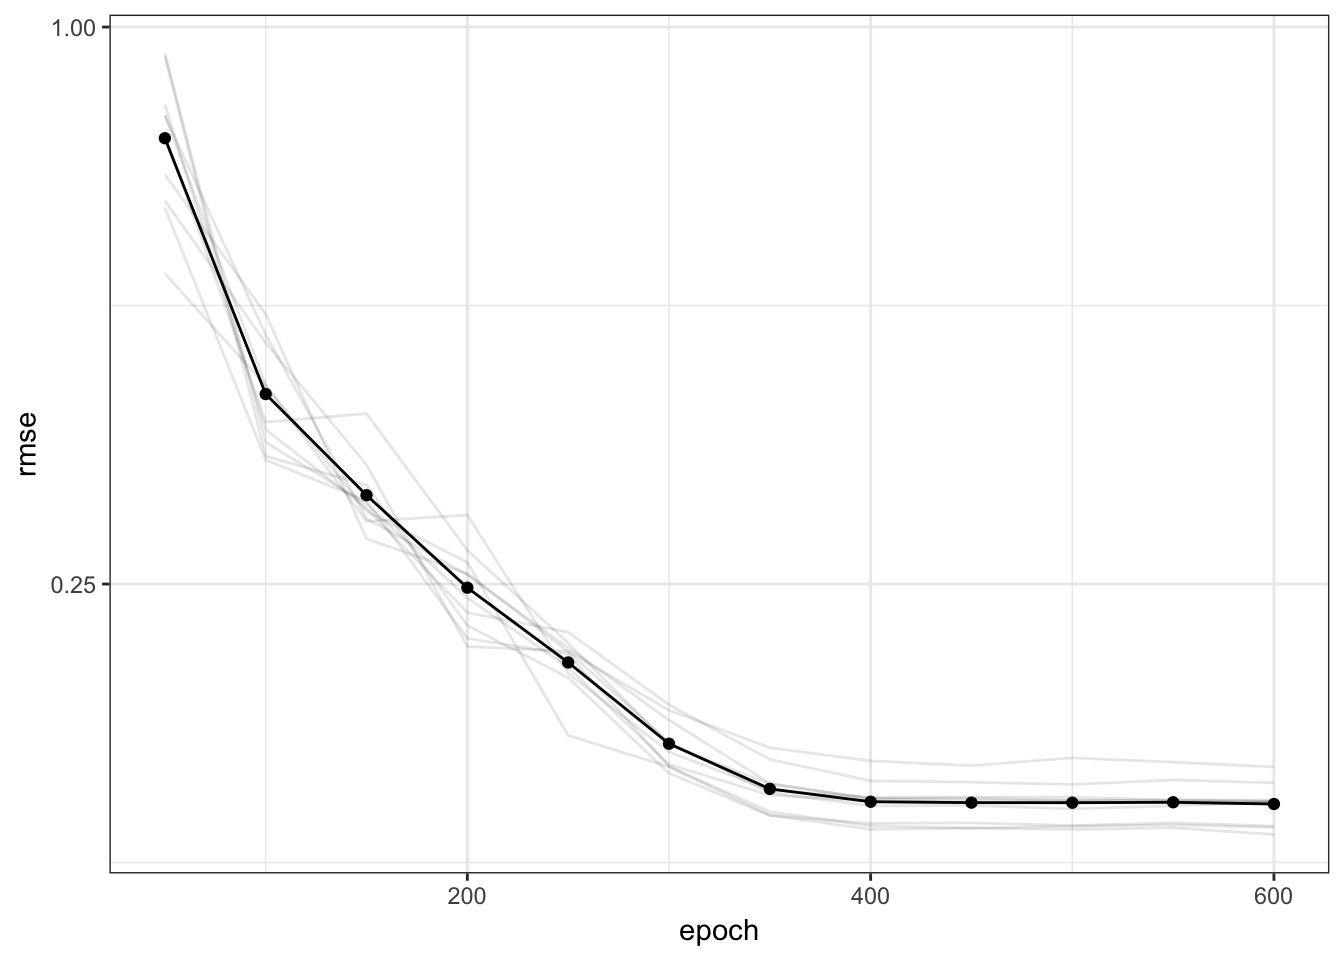
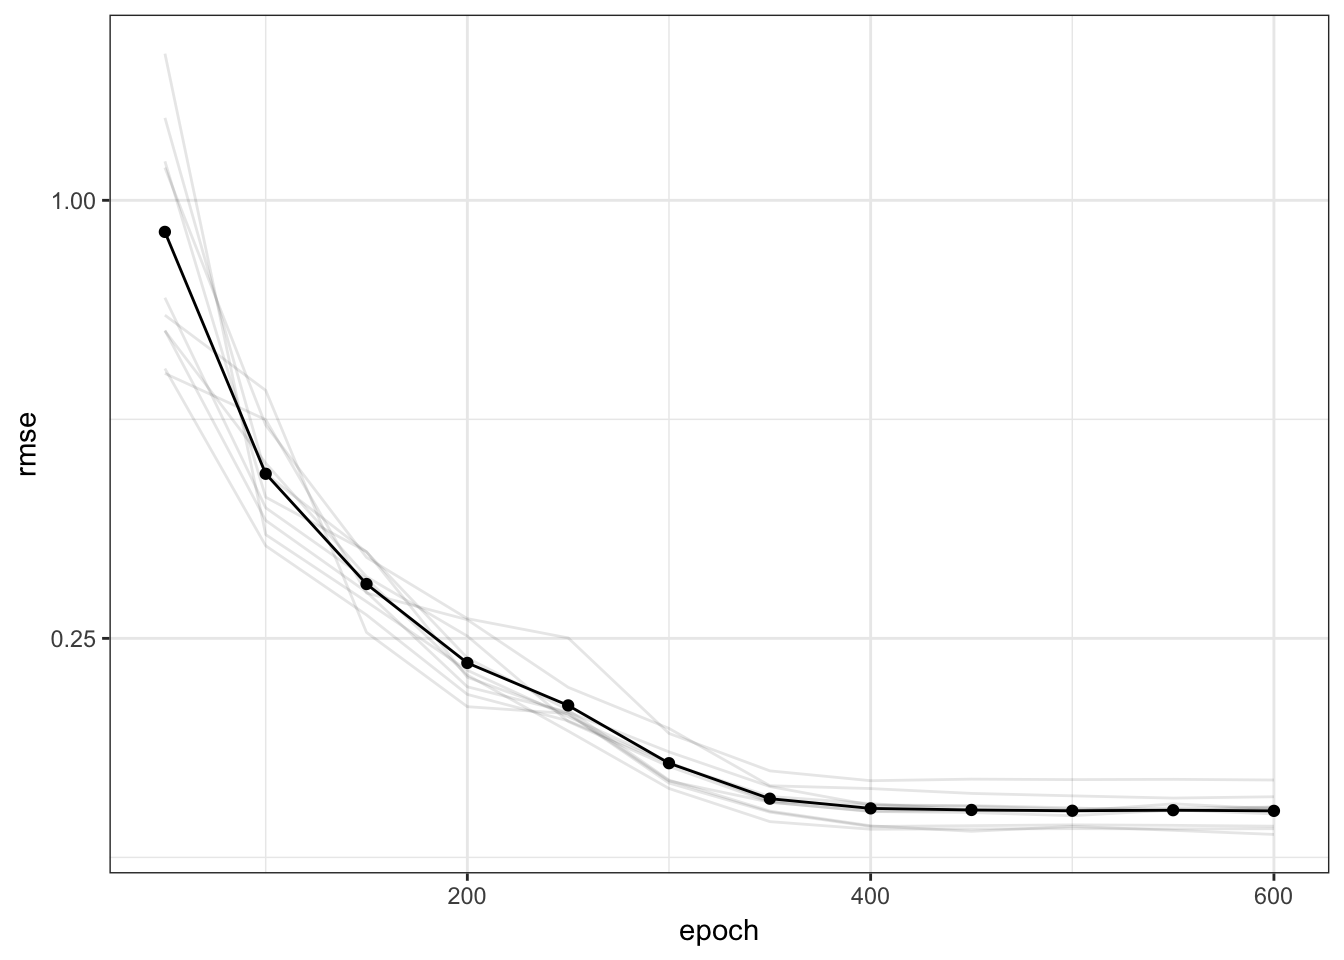
Updated time series model code for vignette

diff --git a/README.html b/README.html
@@ -122,7 +122,7 @@ $(document).ready(function () {
 
 
[3 lines of base64/hex data omitted]
 <p><code>rsample</code> contains a set of functions that can create different types of resamples and corresponding classes for their analysis. The goal is to have a modular set of methods that can be used across different R packages for:</p>
 <ul>
 <li>traditional resampling techniques for estimating the sampling distribution of a statistic and</li>

diff --git a/docs/reference/tidy.rsplit.html b/docs/reference/tidy.rsplit.html
@@ -153,26 +153,26 @@
 <span class='fu'>set.seed</span>(<span class='fl'>4121</span>)
 <span class='no'>cv</span> <span class='kw'>&lt;-</span> <span class='fu'>tidy</span>(<span class='fu'><a href='vfold_cv.html'>vfold_cv</a></span>(<span class='no'>mtcars</span>, <span class='kw'>v</span> <span class='kw'>=</span> <span class='fl'>5</span>))
 <span class='fu'><a href='http://www.rdocumentation.org/packages/ggplot2/topics/ggplot'>ggplot</a></span>(<span class='no'>cv</span>, <span class='fu'><a href='http://www.rdocumentation.org/packages/ggplot2/topics/aes'>aes</a></span>(<span class='kw'>x</span> <span class='kw'>=</span> <span class='no'>Fold</span>, <span class='kw'>y</span> <span class='kw'>=</span> <span class='no'>Row</span>, <span class='kw'>fill</span> <span class='kw'>=</span> <span class='no'>Data</span>)) +
-  <span class='fu'><a href='http://www.rdocumentation.org/packages/ggplot2/topics/geom_tile'>geom_tile</a></span>() + <span class='fu'><a href='http://www.rdocumentation.org/packages/ggplot2/topics/scale_brewer'>scale_fill_brewer</a></span>()</div><div class='img'><img src='tidy.rsplit-21.png' alt='' width='700' height='432.632880098887' /></div><div class='input'>
+  <span class='fu'><a href='http://www.rdocumentation.org/packages/ggplot2/topics/geom_tile'>geom_tile</a></span>() + <span class='fu'><a href='http://www.rdocumentation.org/packages/ggplot2/topics/scale_brewer'>scale_fill_brewer</a></span>()</div><div class='img'><img src='tidy.rsplit-6.png' alt='' width='700' height='432.632880098887' /></div><div class='input'>
 <span class='fu'>set.seed</span>(<span class='fl'>4121</span>)
 <span class='no'>rcv</span> <span class='kw'>&lt;-</span> <span class='fu'>tidy</span>(<span class='fu'><a href='vfold_cv.html'>vfold_cv</a></span>(<span class='no'>mtcars</span>, <span class='kw'>v</span> <span class='kw'>=</span> <span class='fl'>5</span>, <span class='kw'>repeats</span> <span class='kw'>=</span> <span class='fl'>2</span>))
 <span class='fu'><a href='http://www.rdocumentation.org/packages/ggplot2/topics/ggplot'>ggplot</a></span>(<span class='no'>rcv</span>, <span class='fu'><a href='http://www.rdocumentation.org/packages/ggplot2/topics/aes'>aes</a></span>(<span class='kw'>x</span> <span class='kw'>=</span> <span class='no'>Fold</span>, <span class='kw'>y</span> <span class='kw'>=</span> <span class='no'>Row</span>, <span class='kw'>fill</span> <span class='kw'>=</span> <span class='no'>Data</span>)) +
-  <span class='fu'><a href='http://www.rdocumentation.org/packages/ggplot2/topics/geom_tile'>geom_tile</a></span>() + <span class='fu'><a href='http://www.rdocumentation.org/packages/ggplot2/topics/facet_wrap'>facet_wrap</a></span>(~<span class='no'>Repeat</span>) + <span class='fu'><a href='http://www.rdocumentation.org/packages/ggplot2/topics/scale_brewer'>scale_fill_brewer</a></span>()</div><div class='img'><img src='tidy.rsplit-22.png' alt='' width='700' height='432.632880098887' /></div><div class='input'>
+  <span class='fu'><a href='http://www.rdocumentation.org/packages/ggplot2/topics/geom_tile'>geom_tile</a></span>() + <span class='fu'><a href='http://www.rdocumentation.org/packages/ggplot2/topics/facet_wrap'>facet_wrap</a></span>(~<span class='no'>Repeat</span>) + <span class='fu'><a href='http://www.rdocumentation.org/packages/ggplot2/topics/scale_brewer'>scale_fill_brewer</a></span>()</div><div class='img'><img src='tidy.rsplit-7.png' alt='' width='700' height='432.632880098887' /></div><div class='input'>
 <span class='fu'>set.seed</span>(<span class='fl'>4121</span>)
 <span class='no'>mccv</span> <span class='kw'>&lt;-</span> <span class='fu'>tidy</span>(<span class='fu'><a href='mc_cv.html'>mc_cv</a></span>(<span class='no'>mtcars</span>, <span class='kw'>times</span> <span class='kw'>=</span> <span class='fl'>5</span>))
 <span class='fu'><a href='http://www.rdocumentation.org/packages/ggplot2/topics/ggplot'>ggplot</a></span>(<span class='no'>mccv</span>, <span class='fu'><a href='http://www.rdocumentation.org/packages/ggplot2/topics/aes'>aes</a></span>(<span class='kw'>x</span> <span class='kw'>=</span> <span class='no'>Resample</span>, <span class='kw'>y</span> <span class='kw'>=</span> <span class='no'>Row</span>, <span class='kw'>fill</span> <span class='kw'>=</span> <span class='no'>Data</span>)) +
-  <span class='fu'><a href='http://www.rdocumentation.org/packages/ggplot2/topics/geom_tile'>geom_tile</a></span>() + <span class='fu'><a href='http://www.rdocumentation.org/packages/ggplot2/topics/scale_brewer'>scale_fill_brewer</a></span>()</div><div class='img'><img src='tidy.rsplit-23.png' alt='' width='700' height='432.632880098887' /></div><div class='input'>
+  <span class='fu'><a href='http://www.rdocumentation.org/packages/ggplot2/topics/geom_tile'>geom_tile</a></span>() + <span class='fu'><a href='http://www.rdocumentation.org/packages/ggplot2/topics/scale_brewer'>scale_fill_brewer</a></span>()</div><div class='img'><img src='tidy.rsplit-8.png' alt='' width='700' height='432.632880098887' /></div><div class='input'>
 <span class='fu'>set.seed</span>(<span class='fl'>4121</span>)
 <span class='no'>bt</span> <span class='kw'>&lt;-</span> <span class='fu'>tidy</span>(<span class='fu'><a href='bootstraps.html'>bootstraps</a></span>(<span class='no'>mtcars</span>, <span class='kw'>time</span> <span class='kw'>=</span> <span class='fl'>5</span>))
 <span class='fu'><a href='http://www.rdocumentation.org/packages/ggplot2/topics/ggplot'>ggplot</a></span>(<span class='no'>bt</span>, <span class='fu'><a href='http://www.rdocumentation.org/packages/ggplot2/topics/aes'>aes</a></span>(<span class='kw'>x</span> <span class='kw'>=</span> <span class='no'>Resample</span>, <span class='kw'>y</span> <span class='kw'>=</span> <span class='no'>Row</span>, <span class='kw'>fill</span> <span class='kw'>=</span> <span class='no'>Data</span>)) +
-  <span class='fu'><a href='http://www.rdocumentation.org/packages/ggplot2/topics/geom_tile'>geom_tile</a></span>() + <span class='fu'><a href='http://www.rdocumentation.org/packages/ggplot2/topics/scale_brewer'>scale_fill_brewer</a></span>()</div><div class='img'><img src='tidy.rsplit-24.png' alt='' width='700' height='432.632880098887' /></div><div class='input'>
+  <span class='fu'><a href='http://www.rdocumentation.org/packages/ggplot2/topics/geom_tile'>geom_tile</a></span>() + <span class='fu'><a href='http://www.rdocumentation.org/packages/ggplot2/topics/scale_brewer'>scale_fill_brewer</a></span>()</div><div class='img'><img src='tidy.rsplit-9.png' alt='' width='700' height='432.632880098887' /></div><div class='input'>
 <span class='no'>dat</span> <span class='kw'>&lt;-</span> <span class='fu'>data.frame</span>(<span class='kw'>day</span> <span class='kw'>=</span> <span class='fl'>1</span>:<span class='fl'>30</span>)
 <span class='co'># Resample by week instead of day</span>
 <span class='no'>ts_cv</span> <span class='kw'>&lt;-</span> <span class='fu'><a href='rolling_origin.html'>rolling_origin</a></span>(<span class='no'>dat</span>, <span class='kw'>initial</span> <span class='kw'>=</span> <span class='fl'>7</span>, <span class='kw'>assess</span> <span class='kw'>=</span> <span class='fl'>7</span>,
                         <span class='kw'>skip</span> <span class='kw'>=</span> <span class='fl'>6</span>, <span class='kw'>cumulative</span> <span class='kw'>=</span> <span class='fl'>FALSE</span>)
 <span class='no'>ts_cv</span> <span class='kw'>&lt;-</span> <span class='fu'>tidy</span>(<span class='no'>ts_cv</span>)
 <span class='fu'><a href='http://www.rdocumentation.org/packages/ggplot2/topics/ggplot'>ggplot</a></span>(<span class='no'>ts_cv</span>, <span class='fu'><a href='http://www.rdocumentation.org/packages/ggplot2/topics/aes'>aes</a></span>(<span class='kw'>x</span> <span class='kw'>=</span> <span class='no'>Resample</span>, <span class='kw'>y</span> <span class='kw'>=</span> <span class='fu'>factor</span>(<span class='no'>Row</span>), <span class='kw'>fill</span> <span class='kw'>=</span> <span class='no'>Data</span>)) +
-  <span class='fu'><a href='http://www.rdocumentation.org/packages/ggplot2/topics/geom_tile'>geom_tile</a></span>() + <span class='fu'><a href='http://www.rdocumentation.org/packages/ggplot2/topics/scale_brewer'>scale_fill_brewer</a></span>()</div><div class='img'><img src='tidy.rsplit-25.png' alt='' width='700' height='432.632880098887' /></div></pre>
+  <span class='fu'><a href='http://www.rdocumentation.org/packages/ggplot2/topics/geom_tile'>geom_tile</a></span>() + <span class='fu'><a href='http://www.rdocumentation.org/packages/ggplot2/topics/scale_brewer'>scale_fill_brewer</a></span>()</div><div class='img'><img src='tidy.rsplit-10.png' alt='' width='700' height='432.632880098887' /></div></pre>
   </div>
   <div class="col-md-3 hidden-xs hidden-sm" id="sidebar">
     <h2>Contents</h2>

diff --git a/docs/articles/Applications/Survival_Analysis.html b/docs/articles/Applications/Survival_Analysis.html
@@ -180,8 +180,8 @@ concord_est &lt;-<span class="st"> </span><span class="kw"><a href="http://www.r
 <pre><code>## 
 ## SAMPLING FOR MODEL 'continuous' NOW (CHAIN 1).
 ## 
-## Gradient evaluation took 0.00045 seconds
-## 1000 transitions using 10 leapfrog steps per transition would take 4.5 seconds.
+## Gradient evaluation took 0.000589 seconds
+## 1000 transitions using 10 leapfrog steps per transition would take 5.89 seconds.
 ## Adjust your expectations accordingly!
 ## 
 ## 
@@ -198,15 +198,15 @@ concord_est &lt;-<span class="st"> </span><span class="kw"><a href="http://www.r
 ## Iteration: 4500 / 5000 [ 90%]  (Sampling)
 ## Iteration: 5000 / 5000 [100%]  (Sampling)
 ## 
-##  Elapsed Time: 6.92311 seconds (Warm-up)
-##                2.28236 seconds (Sampling)
-##                9.20547 seconds (Total)
+##  Elapsed Time: 6.80806 seconds (Warm-up)
+##                2.27923 seconds (Sampling)
+##                9.08729 seconds (Total)
 ## 
 ## 
 ## SAMPLING FOR MODEL 'continuous' NOW (CHAIN 2).
 ## 
-## Gradient evaluation took 4.8e-05 seconds
-## 1000 transitions using 10 leapfrog steps per transition would take 0.48 seconds.
+## Gradient evaluation took 7.5e-05 seconds
+## 1000 transitions using 10 leapfrog steps per transition would take 0.75 seconds.
 ## Adjust your expectations accordingly!
 ## 
 ## 
@@ -223,15 +223,15 @@ concord_est &lt;-<span class="st"> </span><span class="kw"><a href="http://www.r
 ## Iteration: 4500 / 5000 [ 90%]  (Sampling)
 ## Iteration: 5000 / 5000 [100%]  (Sampling)
 ## 
-##  Elapsed Time: 7.24342 seconds (Warm-up)
-##                1.96153 seconds (Sampling)
-##                9.20495 seconds (Total)
+##  Elapsed Time: 7.2541 seconds (Warm-up)
+##                1.90973 seconds (Sampling)
+##                9.16382 seconds (Total)
 ## 
 ## 
 ## SAMPLING FOR MODEL 'continuous' NOW (CHAIN 3).
 ## 
-## Gradient evaluation took 6.9e-05 seconds
-## 1000 transitions using 10 leapfrog steps per transition would take 0.69 seconds.
+## Gradient evaluation took 6e-05 seconds
+## 1000 transitions using 10 leapfrog steps per transition would take 0.6 seconds.
 ## Adjust your expectations accordingly!
 ## 
 ## 
@@ -248,15 +248,15 @@ concord_est &lt;-<span class="st"> </span><span class="kw"><a href="http://www.r
 ## Iteration: 4500 / 5000 [ 90%]  (Sampling)
 ## Iteration: 5000 / 5000 [100%]  (Sampling)
 ## 
-##  Elapsed Time: 7.14355 seconds (Warm-up)
-##                1.67678 seconds (Sampling)
-##                8.82033 seconds (Total)
+##  Elapsed Time: 7.08868 seconds (Warm-up)
+##                1.73586 seconds (Sampling)
+##                8.82453 seconds (Total)
 ## 
 ## 
 ## SAMPLING FOR MODEL 'continuous' NOW (CHAIN 4).
 ## 
-## Gradient evaluation took 7.3e-05 seconds
-## 1000 transitions using 10 leapfrog steps per transition would take 0.73 seconds.
+## Gradient evaluation took 6.3e-05 seconds
+## 1000 transitions using 10 leapfrog steps per transition would take 0.63 seconds.
 ## Adjust your expectations accordingly!
 ## 
 ## 
@@ -273,9 +273,9 @@ concord_est &lt;-<span class="st"> </span><span class="kw"><a href="http://www.r
 ## Iteration: 4500 / 5000 [ 90%]  (Sampling)
 ## Iteration: 5000 / 5000 [100%]  (Sampling)
 ## 
-##  Elapsed Time: 7.66621 seconds (Warm-up)
-##                3.13709 seconds (Sampling)
-##                10.8033 seconds (Total)</code></pre>
+##  Elapsed Time: 7.44074 seconds (Warm-up)
+##                3.11619 seconds (Sampling)
+##                10.5569 seconds (Total)</code></pre>
 <div class="sourceCode"><pre class="sourceCode r"><code class="sourceCode r">concord_est<span class="op">$</span>stan</code></pre></div>
 <pre><code>## stan_glmer
 ##  family:       gaussian [identity]

diff --git a/docs/articles/Applications/Time_Series.html b/docs/articles/Applications/Time_Series.html
@@ -135,12 +135,20 @@ roll_rs<span class="op">$</span>start_date &lt;-<span class="st"> </span><span c
 <pre><code>## [1] "2012-01-01" "2012-02-01" "2012-03-01" "2012-04-01" "2012-05-01"
 ## [6] "2012-06-01"</code></pre>
 <p>This resampling scheme has 58 splits of the data so that there will be 58 ARIMA models that are fit. To create the models, the <code>auto.arima</code> function from the <code>forecast</code> package is used. The functions <code>analysis</code> and <code>assessment</code> return the data frame, so another step converts the data in to a <code>ts</code> object called <code>mod_dat</code> using a function in the <code>timetk</code> package.</p>
-<div class="sourceCode"><pre class="sourceCode r"><code class="sourceCode r"><span class="kw">library</span>(forecast)
-<span class="kw">library</span>(timetk)
+<div class="sourceCode"><pre class="sourceCode r"><code class="sourceCode r"><span class="kw">library</span>(forecast)  <span class="co"># for `auto.arima`</span>
+<span class="kw">library</span>(timetk)    <span class="co"># for `tk_ts`</span>
+<span class="kw">library</span>(zoo)       <span class="co"># for `as.yearmon`</span>
 
 fit_model &lt;-<span class="st"> </span><span class="cf">function</span>(x, ...) {
-  mod_dat &lt;-<span class="st"> </span><span class="kw"><a href="http://www.rdocumentation.org/packages/timetk/topics/tk_ts">tk_ts</a></span>(<span class="kw"><a href="../../reference/as.data.frame.rsplit.html">analysis</a></span>(x), <span class="dt">start =</span> <span class="dv">1992</span>, <span class="dt">freq =</span> <span class="dv">12</span>)
-  <span class="kw"><a href="http://www.rdocumentation.org/packages/forecast/topics/auto.arima">auto.arima</a></span>(mod_dat)
+  <span class="co"># suggested by Matt Dancho:</span>
+  x <span class="op">%&gt;%</span>
+<span class="st">    </span><span class="kw"><a href="../../reference/as.data.frame.rsplit.html">analysis</a></span>() <span class="op">%&gt;%</span>
+<span class="st">    </span><span class="co"># Since the first day changes over resamples, adjust it</span>
+<span class="st">    </span><span class="co"># based on the first date value in the data frame </span>
+<span class="st">    </span><span class="kw"><a href="http://www.rdocumentation.org/packages/timetk/topics/tk_ts">tk_ts</a></span>(<span class="dt">start =</span> .<span class="op">$</span>DATE[[<span class="dv">1</span>]] <span class="op">%&gt;%</span><span class="st"> </span><span class="kw"><a href="http://www.rdocumentation.org/packages/zoo/topics/yearmon">as.yearmon</a></span>(), 
+          <span class="dt">freq =</span> <span class="dv">12</span>, 
+          <span class="dt">silent =</span> <span class="ot">TRUE</span>) <span class="op">%&gt;%</span>
+<span class="st">    </span><span class="kw"><a href="http://www.rdocumentation.org/packages/forecast/topics/auto.arima">auto.arima</a></span>(...)
 }</code></pre></div>
 <p>Each model is saved in a new column:</p>
 <div class="sourceCode"><pre class="sourceCode r"><code class="sourceCode r"><span class="kw">library</span>(purrr)
@@ -150,7 +158,7 @@ roll_rs<span class="op">$</span>arima &lt;-<span class="st"> </span><span class=
 <span class="co"># For example:</span>
 
 roll_rs<span class="op">$</span>arima[[<span class="dv">1</span>]]</code></pre></div>
-<pre><code>## Series: mod_dat 
+<pre><code>## Series: . 
 ## ARIMA(2,1,2)(2,1,1)[12] 
 ## 
 ## Coefficients:

diff --git a/docs/articles/Applications/Keras.html b/docs/articles/Applications/Keras.html
@@ -167,7 +167,7 @@ mlp_rmse &lt;-<span class="st"> </span><span class="cf">function</span>(epoch, s
   <span class="dt">batch_size =</span> <span class="dv">128</span>, 
   <span class="dt">verbose =</span> <span class="dv">0</span>
 )</code></pre></div>
-<pre><code>## [1] 0.4420653</code></pre>
+<pre><code>## [1] 0.321477</code></pre>
 <p>This works for a single resample and a single epoch setting. To tune over epochs, another function uses <code>map</code> to work over the tuning parameter for a specific resample. This is more advantageous than fixing the tuning parameter and then iterating over the data. If there was a complex feature engineering process being used, it only needs to be called once if functions are configured so that the <em>inner</em> loop is over the tuning parameters.</p>
 <p>The result value is a tibble with the tuning parameter values, the performance estimates, and an indicator for the fold.</p>
 <div class="sourceCode"><pre class="sourceCode r"><code class="sourceCode r">across_grid &lt;-<span class="st"> </span><span class="cf">function</span>(split, ...) {
@@ -196,12 +196,12 @@ mlp_rmse &lt;-<span class="st"> </span><span class="cf">function</span>(epoch, s
   )</code></pre></div>
 <div class="sourceCode"><pre class="sourceCode r"><code class="sourceCode r"><span class="kw">head</span>(tune_results)</code></pre></div>
 <pre><code>##   epoch      rmse     id
-## 1    50 0.7654377 Fold01
-## 2   100 0.3741241 Fold01
-## 3   150 0.3820697 Fold01
-## 4   200 0.2719558 Fold01
-## 5   250 0.2158916 Fold01
-## 6   300 0.1676901 Fold01</code></pre>
+## 1    50 0.5871970 Fold01
+## 2   100 0.3351279 Fold01
+## 3   150 0.2692531 Fold01
+## 4   200 0.2093771 Fold01
+## 5   250 0.1925796 Fold01
+## 6   300 0.1683193 Fold01</code></pre>
 <p>The mean RMSE per epoch is computed and plotted along with the individual curves for each resample.</p>
 <div class="sourceCode"><pre class="sourceCode r"><code class="sourceCode r">mean_values &lt;-<span class="st"> </span>tune_results <span class="op">%&gt;%</span>
 <span class="st">  </span><span class="kw"><a href="http://dplyr.tidyverse.org/reference/group_by.html">group_by</a></span>(epoch) <span class="op">%&gt;%</span>
@@ -210,18 +210,18 @@ mean_values</code></pre></div>
 <pre><code>## # A tibble: 12 x 2
 ##    epoch      rmse
 ##    &lt;dbl&gt;     &lt;dbl&gt;
-##  1    50 0.7582884
-##  2   100 0.4011383
-##  3   150 0.3118799
-##  4   200 0.2477312
-##  5   250 0.2056774
-##  6   300 0.1680085
-##  7   350 0.1501554
-##  8   400 0.1454276
-##  9   450 0.1451050
-## 10   500 0.1450753
-## 11   550 0.1452310
-## 12   600 0.1446001</code></pre>
+##  1    50 0.9048910
+##  2   100 0.4208690
+##  3   150 0.2969051
+##  4   200 0.2313009
+##  5   250 0.2022007
+##  6   300 0.1684118
+##  7   350 0.1505222
+##  8   400 0.1459717
+##  9   450 0.1452483
+## 10   500 0.1448865
+## 11   550 0.1451376
+## 12   600 0.1448295</code></pre>
 <div class="sourceCode"><pre class="sourceCode r"><code class="sourceCode r"><span class="kw">library</span>(ggplot2)
 
 <span class="kw"><a href="http://www.rdocumentation.org/packages/ggplot2/topics/ggplot">ggplot</a></span>(mean_values, <span class="kw"><a href="http://www.rdocumentation.org/packages/ggplot2/topics/aes">aes</a></span>(<span class="dt">x =</span> epoch, <span class="dt">y =</span> rmse)) <span class="op">+</span><span class="st"> </span>

diff --git a/docs/articles/Applications/Recipes_and_rsample.html b/docs/articles/Applications/Recipes_and_rsample.html
@@ -163,7 +163,7 @@ rec</code></pre></div>
 ##    outcome          1
 ##  predictor          4
 ## 
-## Steps:
+## Operations:
 ## 
 ## Log transformation on Sale_Price
 ## Collapsing factor levels for Neighborhood, House_Style
@@ -175,12 +175,12 @@ rec</code></pre></div>
 <p>While the original data object <code>ames</code> is used in the call, it is only used to define the variables and their characteristics so a single recipe is valid across all resampled versions of the data. The recipe can be estimated on the analysis component of the resample.</p>
 <p>If we execute the recipe on the entire data set:</p>
 <div class="sourceCode"><pre class="sourceCode r"><code class="sourceCode r">rec_training_set &lt;-<span class="st"> </span><span class="kw"><a href="http://www.rdocumentation.org/packages/recipes/topics/prep">prep</a></span>(rec, <span class="dt">training =</span> ames, <span class="dt">retain =</span> <span class="ot">TRUE</span>, <span class="dt">verbose =</span> <span class="ot">TRUE</span>)</code></pre></div>
-<pre><code>## step 1 log training 
-## step 2 other training 
-## step 3 dummy training 
-## step 4 BoxCox training 
-## step 5 center training 
-## step 6 scale training</code></pre>
+<pre><code>## oper 1 step log [training] 
+## oper 2 step other [training] 
+## oper 3 step dummy [training] 
+## oper 4 step BoxCox [training] 
+## oper 5 step center [training] 
+## oper 6 step scale [training]</code></pre>
 <div class="sourceCode"><pre class="sourceCode r"><code class="sourceCode r">rec_training_set</code></pre></div>
 <pre><code>## Data Recipe
 ## 
@@ -192,7 +192,7 @@ rec</code></pre></div>
 ## 
 ## Training data contained 2911 data points and no missing data.
 ## 
-## Steps:
+## Operations:
 ## 
 ## Log transformation on Sale_Price [trained]
 ## Collapsing factor levels for Neighborhood, House_Style [trained]
@@ -294,7 +294,7 @@ bt_samples</code></pre></div>
 ## 
 ## Training data contained 2911 data points and no missing data.
 ## 
-## Steps:
+## Operations:
 ## 
 ## Log transformation on Sale_Price [trained]
 ## Collapsing factor levels for Neighborhood, House_Style [trained]

diff --git a/docs/reference/initial_split.html b/docs/reference/initial_split.html
@@ -150,7 +150,7 @@
 
     <h2 class="hasAnchor" id="examples"><a class="anchor" href="#examples"></a>Examples</h2>
     <pre class="examples"><div class='input'><span class='fu'>set.seed</span>(<span class='fl'>1353</span>)
-<span class='no'>car_split</span> <span class='kw'>&lt;-</span> <span class='fu'><a href='mc_cv.html'>mc_cv</a></span>(<span class='no'>mtcars</span>)
+<span class='no'>car_split</span> <span class='kw'>&lt;-</span> <span class='fu'>initial_split</span>(<span class='no'>mtcars</span>)
 <span class='no'>train_data</span> <span class='kw'>&lt;-</span> <span class='fu'>training</span>(<span class='no'>car_split</span>)
 <span class='no'>test_data</span> <span class='kw'>&lt;-</span> <span class='fu'>testing</span>(<span class='no'>car_split</span>)</div></pre>
   </div>
